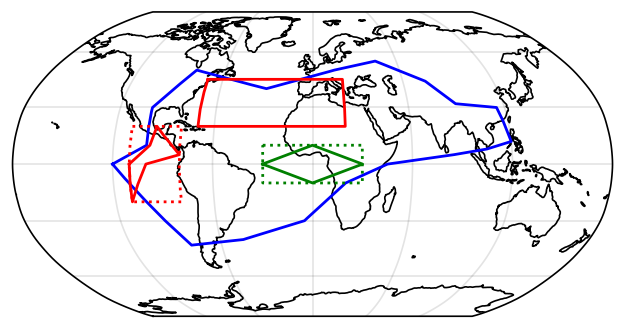
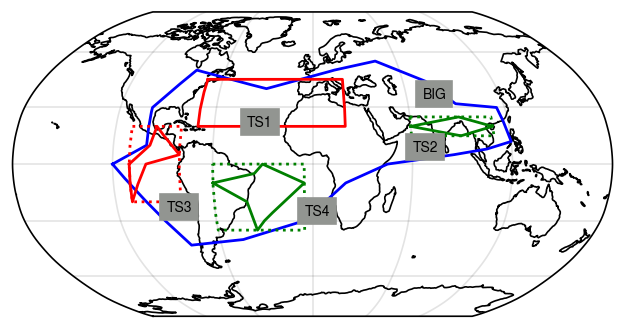
More documentation updates.

Changed region(s): [[0.2436, 0.304, 0.5785, 0.7295], [0.6394, 0.2432, 0.7917, 0.4863], [0.3349, 0.6687, 0.3654, 0.6991]]

diff --git a/docs/src/using/isin.md b/docs/src/using/isin.md
@@ -26,7 +26,7 @@ isPointinGeoRegion(Point2(30,15),GeoRegion("AR6_EAO"),throw=false) # Point B
 
 Since any arbitrary geographic region can be defined as a `GeoRegion`, the natural extension now is to determine if a GeoRegion is wholly within another GeoRegion.
 
-Let us consider an arbitrary GeoRegion `BIG`, and other smaller GeoRegions `TS1`, `TS2` and `TS3` as defined below
+Let us consider an arbitrary GeoRegion `BIG`, and other smaller GeoRegions `TS1-4` as defined below
 
 ```@repl
 using GeoRegions
@@ -35,21 +35,26 @@ PolyRegion(
     "BIG","GLB","A Big Region",
     [-120,-100,-100,-80,-30,15,45,75,90,115,120,105,85,45,20,-5,-45,-80,-120],
     [0,10,30,50,40,50,55,44,32,30,12,8,5,0,-10,-30,-40,-43,0]
-)
-RectRegion("TS1","GLB","Test Region 1",[45,20,20,-70])
-PolyRegion("TS2","GLB","Test Region 2",[-30,0,30,0,-30],[0,10,0,-10,0])
+);
+RectRegion("TS1","GLB","Test Region 1",[45,20,20,-70]);
+PolyRegion("TS2","GLB","Test Region 2",[60,90,110,90,60],[20,25,20,15,20]);
 PolyRegion(
     "TS3","GLB","Test Region 3",
     [-110,-98,-95,-90,-80,-100,-110,-110],
     [0,10,20,15,5,0,-20,0]
-)
+);
+PolyRegion(
+    "TS4","GLB","Test Region 4",
+    [300,325,330,355,330,325,320,300],
+    [-10,-5,0,-10,-30,-35,-20,-10]
+);
 ```
 
 And we plot the bounds (dotted) and the shape (solid) of the GeoRegions below:
 
 ![isgeoregioningeoregion](isgeoregioningeoregion.png)
 
-We see by eye that GeoRegion `TS2` is in the `BIG` region, but the other GeoRegions are not.  Now let us verify this with `isGeoRegioninGeoRegion`
+We see by eye that GeoRegion `TS2` and `TS4` are in the `BIG` region, but the other GeoRegions are not.  Now let us verify this with `isGeoRegioninGeoRegion`
 
 ```@repl
 using GeoRegions
@@ -58,6 +63,7 @@ geo = GeoRegion("BIG");
 t1  = GeoRegion("TS1"); isGeoRegioninGeoRegion(t1,geo,throw=false)
 t2  = GeoRegion("TS2"); isGeoRegioninGeoRegion(t2,geo,throw=false)
 t3  = GeoRegion("TS3"); isGeoRegioninGeoRegion(t3,geo,throw=false)
+t4  = GeoRegion("TS4"); isGeoRegioninGeoRegion(t4,geo,throw=false)
 ```
 
 And we see that this is indeed the case.

diff --git a/docs/src/using/regiongrid.md b/docs/src/using/regiongrid.md
@@ -1,0 +1,27 @@
+# From GeoRegions to RegionGrid
+
+But how do we go from defining a GeoRegion, to **extracting data** for that GeoRegion?  The answer is with the information in the `RegionGrid` types, which maps gridded lon-lat data to a given GeoRegion
+* Mapping gridded lon-lat data to a **`RectRegion`** gives a `RectGrid` structure
+* Mapping gridded lon-lat data to a **`PolyRegion`** gives a `PolyGrid` structure
+
+However, the basic uses of `RectGrid` and `PolyGrid` are the same, and as such their differences are largely transparent to the user, except for one field found in `PolyGrid`, the `mask`, which will be elaborated upon later.
+
+```@repl
+using GeoRegions
+geo   = GeoRegion("AR6_SAS")
+lon   = collect(-180:5:180)[1:(end-1)];
+lat   = collect(-90:2:90);
+ginfo = RegionGrid(geo,lon,lat)
+```
+
+And using the field mask, we plot the points that are in the region (blue), and out of the region (red).
+
+```julia
+inlon = mask .* ginfo.glon;              inlon = inlon[.!iszero.(mask)]
+inlat = mask .* reshape(ginfo.glat,1,:); inlat = inlat[.!iszero.(mask)]
+otlon = (1 .- mask) .* ginfo.glon;              otlon = otlon[iszero.(mask)]
+otlat = (1 .- mask) .* reshape(ginfo.glat,1,:); otlat = otlat[iszero.(mask)]
+blon,blat,slon,slat = coordGeoRegion(geo)
+```
+
+![regiongrid](regiongrid.png)
